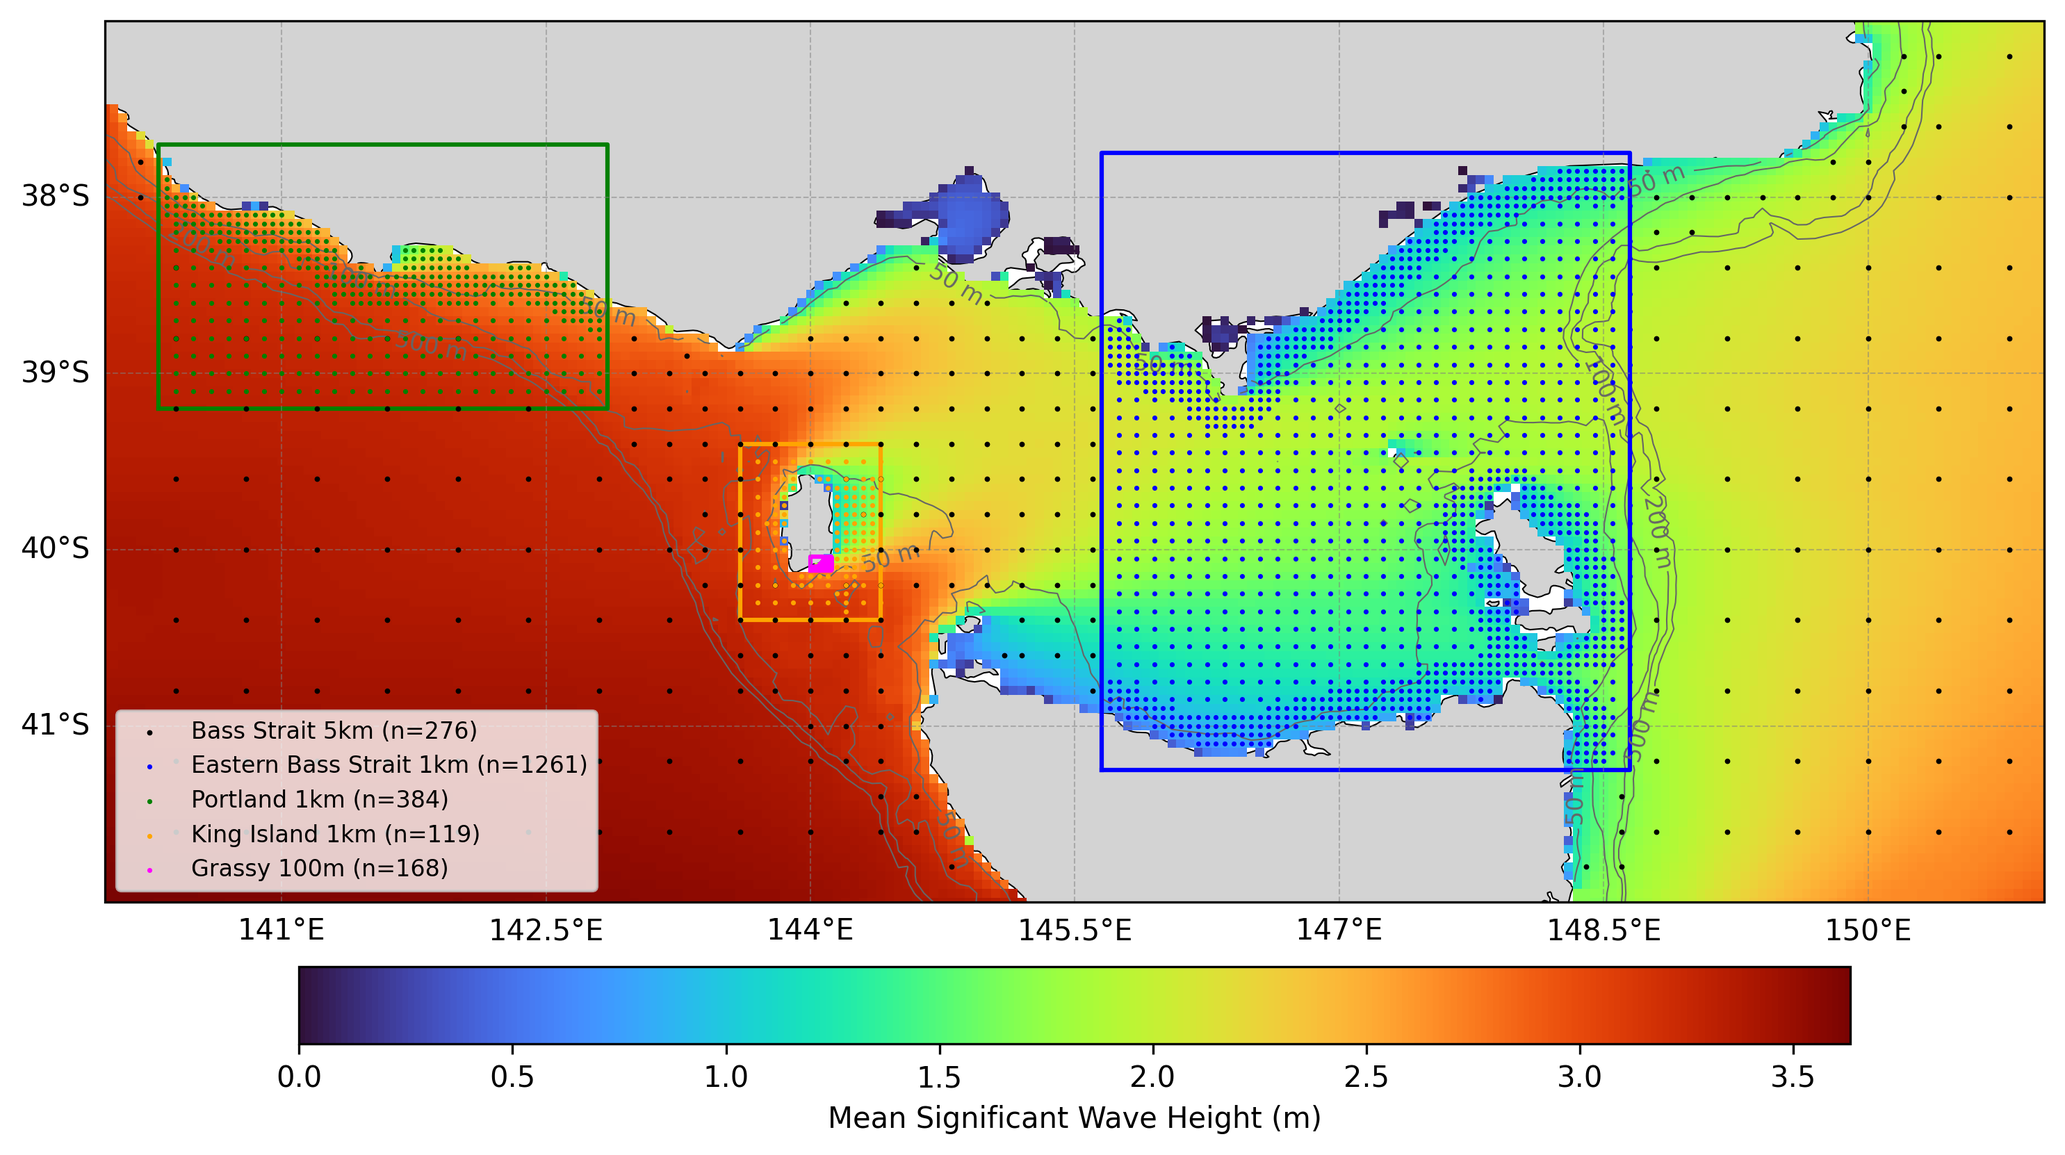
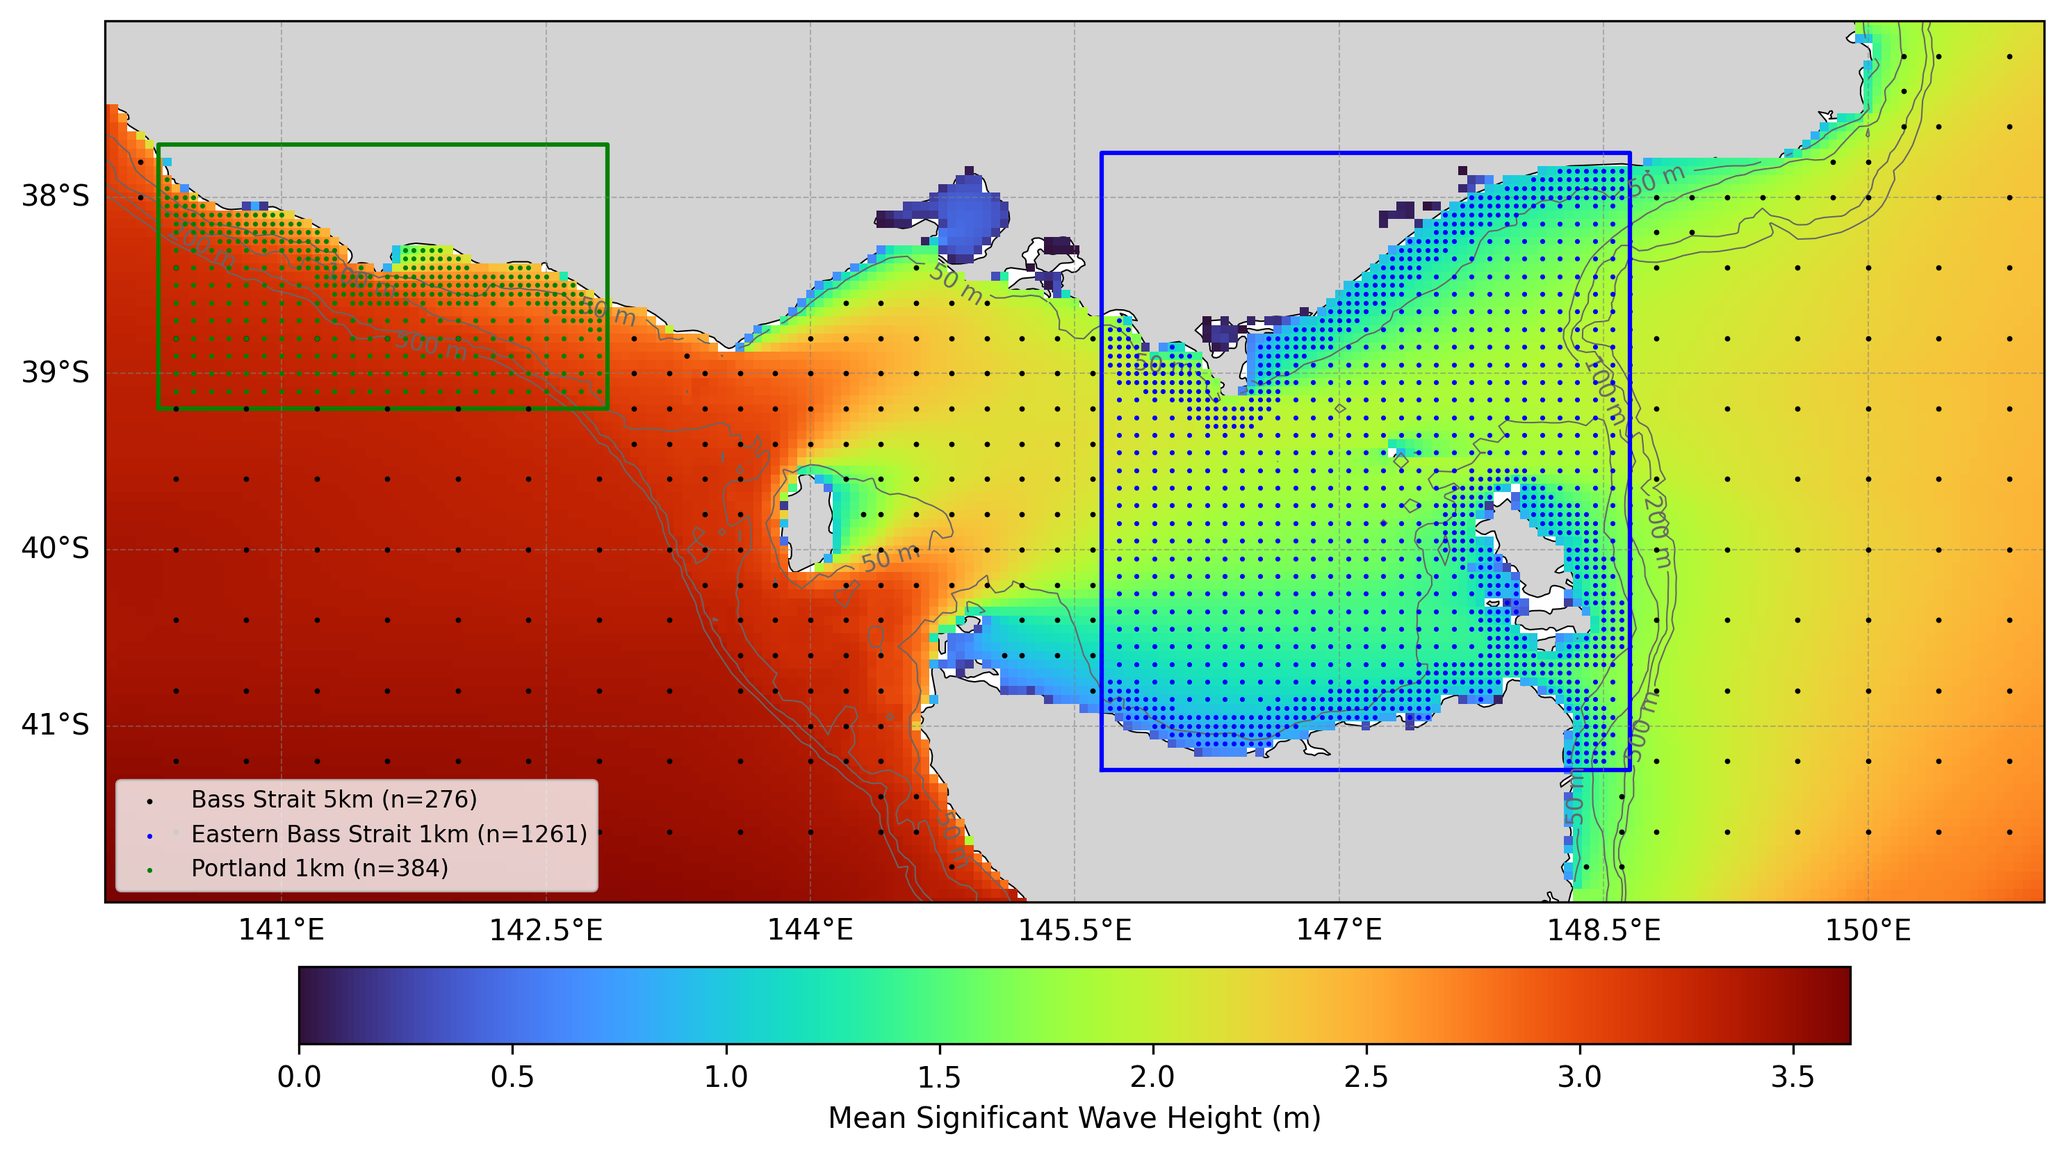
Add King Island document

Changed region(s): [[0.031, 0.6137, 0.3097, 0.7671], [0.3716, 0.3682, 0.4335, 0.5523]]

diff --git a/scripts/generate_kingisland_figure1.py b/scripts/generate_kingisland_figure1.py
@@ -1,0 +1,125 @@
+#!/usr/bin/env python3
+"""
+Generate Figure 1 for the King Island Wave Hindcast document.
+Shows mean significant wave height (from parent Bass Strait gridstats) with depth contours,
+spectra site locations for King Island and Grassy, and the Grassy nest bounding box.
+"""
+
+import matplotlib.pyplot as plt
+import cartopy.crs as ccrs
+import cartopy.feature as cfeature
+import numpy as np
+from oceanum.datamesh import Connector
+
+# Initialize Datamesh connector
+conn = Connector()
+
+# Query gridstats for mean wave parameters (King Island native resolution)
+print("Querying King Island gridstats data...")
+dset = conn.query(
+    datasource="oceanum_wave_king_1km_era5_gridstats",
+    variables=["hs_mean", "depth_mean"]
+)
+
+# Query sites for spectra locations
+print("Querying King Island spectra sites...")
+sites_king = conn.query(datasource="oceanum_wave_king_1km_era5_spec", variables=["lon", "lat"])
+
+print("Querying Grassy spectra sites...")
+sites_grassy = conn.query(datasource="oceanum_wave_grassy_100m_era5_spec", variables=["lon", "lat"])
+
+# Get nest geometries
+print("Getting nest geometries...")
+ds_king = conn.get_datasource("oceanum_wave_king_1km_era5_grid")
+ds_grassy = conn.get_datasource("oceanum_wave_grassy_100m_era5_grid")
+
+# Set up the figure with Cartopy projection
+fig, ax = plt.subplots(
+    figsize=(8, 10),
+    subplot_kw={"projection": ccrs.PlateCarree()}
+)
+
+# Plot mean significant wave height
+print("Plotting mean Hs...")
+hs_plot = dset.hs_mean.plot(
+    ax=ax,
+    transform=ccrs.PlateCarree(),
+    cmap="turbo",
+    cbar_kwargs={
+        "label": "Mean Significant Wave Height (m)",
+        "orientation": "horizontal",
+        "pad": 0.05,
+        "shrink": 0.8
+    }
+)
+
+# Add depth contours
+print("Adding depth contours...")
+depth = dset.depth_mean.values
+lon = dset.longitude.values if "longitude" in dset.coords else dset.lon.values
+lat = dset.latitude.values if "latitude" in dset.coords else dset.lat.values
+
+# Create meshgrid for contour plotting
+lon2d, lat2d = np.meshgrid(lon, lat)
+
+# Plot depth contours
+contour_levels = [20, 50, 100, 200]
+cs = ax.contour(
+    lon2d, lat2d, depth,
+    levels=contour_levels,
+    colors="0.4",
+    linewidths=0.5,
+    transform=ccrs.PlateCarree()
+)
+ax.clabel(cs, inline=True, fontsize=8, fmt="%d m")
+
+# Plot King Island spectra site locations
+print("Plotting spectra sites...")
+ax.scatter(
+    sites_king.lon.values, sites_king.lat.values,
+    s=5, c="black", marker=".",
+    transform=ccrs.PlateCarree(),
+    label=f"King Island 1km (n={len(sites_king.lon)})",
+    zorder=5
+)
+
+# Plot Grassy spectra site locations
+ax.scatter(
+    sites_grassy.lon.values, sites_grassy.lat.values,
+    s=5, c="blue", marker=".",
+    transform=ccrs.PlateCarree(),
+    label=f"Grassy 100m (n={len(sites_grassy.lon)})",
+    zorder=5
+)
+
+# Plot nest bounding boxes
+print("Plotting nest bboxes...")
+# King Island bbox
+king_x, king_y = ds_king.geom.exterior.xy
+ax.plot(king_x, king_y, color="black", linewidth=2, transform=ccrs.PlateCarree(), label="King Island 1km domain")
+
+# Grassy bbox
+grassy_x, grassy_y = ds_grassy.geom.exterior.xy
+ax.plot(grassy_x, grassy_y, color="blue", linewidth=2, transform=ccrs.PlateCarree(), label="Grassy 100m nest")
+
+# Add land features
+ax.add_feature(cfeature.LAND, facecolor="lightgray", edgecolor="black", linewidth=0.5)
+
+# Set extent to match King Island domain with some buffer
+ax.set_extent([143.4, 144.6, -40.6, -39.2], crs=ccrs.PlateCarree())
+
+# Add gridlines
+gl = ax.gridlines(draw_labels=True, linewidth=0.5, color="gray", alpha=0.5, linestyle="--")
+gl.top_labels = False
+gl.right_labels = False
+
+# Add legend
+ax.legend(loc="lower left", fontsize=8)
+
+# Save figure
+output_path = "/source/datasource-description/figures/kingisland_figure1_hs_mean.png"
+print(f"Saving figure to {output_path}...")
+plt.savefig(output_path, dpi=300, bbox_inches="tight", facecolor="white")
+plt.close()
+
+print("Done!")

diff --git a/scripts/generate_bass_figure1.py b/scripts/generate_bass_figure1.py
@@ -31,18 +31,10 @@ sites_ebass = conn.query(datasource="oceanum_wave_ebass_1km_era5_spec", variable
 print("Querying Portland spectra sites...")
 sites_ptlan = conn.query(datasource="oceanum_wave_ptlan_1km_era5_spec", variables=["lon", "lat"])
 
-print("Querying Grassy spectra sites...")
-sites_grassy = conn.query(datasource="oceanum_wave_grassy_100m_era5_spec", variables=["lon", "lat"])
-
-print("Querying King Island spectra sites...")
-sites_king = conn.query(datasource="oceanum_wave_king_1km_era5_spec", variables=["lon", "lat"])
-
 # Get nest geometries
 print("Getting nest geometries...")
 ds_ebass = conn.get_datasource("oceanum_wave_ebass_1km_era5_grid")
 ds_ptlan = conn.get_datasource("oceanum_wave_ptlan_1km_era5_grid")
-ds_king = conn.get_datasource("oceanum_wave_king_1km_era5_grid")
-ds_grassy = conn.get_datasource("oceanum_wave_grassy_100m_era5_grid")
 
 # Set up the figure with Cartopy projection
 fig, ax = plt.subplots(
@@ -112,31 +104,11 @@ ax.scatter(
     zorder=5
 )
 
-# Plot King Island spectra site locations
-ax.scatter(
-    sites_king.lon.values, sites_king.lat.values,
-    s=2, c="orange", marker=".",
-    transform=ccrs.PlateCarree(),
-    label=f"King Island 1km (n={len(sites_king.lon)})",
-    zorder=5
-)
-
-# Plot Grassy spectra site locations
-ax.scatter(
-    sites_grassy.lon.values, sites_grassy.lat.values,
-    s=2, c="magenta", marker=".",
-    transform=ccrs.PlateCarree(),
-    label=f"Grassy 100m (n={len(sites_grassy.lon)})",
-    zorder=5
-)
-
 # Plot nest bounding boxes
 print("Plotting nest bboxes...")
 for geom, label, color in [
     (ds_ebass.geom, "Eastern Bass Strait 1km", "blue"),
     (ds_ptlan.geom, "Portland 1km", "green"),
-    (ds_king.geom, "King Island 1km", "orange"),
-    (ds_grassy.geom, "Grassy 100m", "magenta"),
 ]:
     x, y = geom.exterior.xy
     ax.plot(x, y, color=color, linewidth=1.5, transform=ccrs.PlateCarree())

diff --git a/oceanum_king_island_wave_hindcast.md b/oceanum_king_island_wave_hindcast.md
@@ -1,0 +1,129 @@
+<style>
+p { text-align: justify; }
+</style>
+
+# Oceanum King Island Wave Hindcast Specification
+
+**February 2025**
+
+| | |
+|---|---|
+| **Model** | SWAN 41.31 |
+| **Period** | Jan 2015 - Jan 2025 |
+| **Spatial resolution** | 0.01 degree (King Island), 0.001 degree (Grassy) |
+| **Temporal resolution** | 1 hourly |
+| **Region** | 143.6E - 144.4E, 40.4S - 39.4S |
+| **Forcings** | ERA5 winds, Glorys/TPXO9 currents, and Oceanum spectra |
+
+---
+
+## Dataset description
+
+The King Island wave hindcast dataset provides a detailed account of ocean wave parameters around King Island in western Bass Strait (Figure 1). Wave spectra are computed over a 10-year period between 2015 and 2025 using the SWAN (Simulating WAves Nearshore) third-generation spectral wave model. The model is driven by inputs from the Oceanum Bass Strait Wave Model for spectral boundaries and <a href="https://www.ecmwf.int/en/forecasts/dataset/ecmwf-reanalysis-v5" target="_blank">ERA5 reanalysis winds</a> from the European Centre for Medium-Range Weather Forecasts. Wave-current interactions are included through coupling with ocean currents from <a href="https://data.marine.copernicus.eu/product/GLOBAL_MULTIYEAR_PHY_001_030/description" target="_blank">Glorys reanalysis</a> and tidal currents from the TPXO9 atlas. Bathymetry is derived from the <a href="https://ecat.ga.gov.au/geonetwork/srv/eng/catalog.search#/metadata/115066" target="_blank">Bass Strait high-resolution depth model</a> 30m grid from Geosciences Australia.
+
+The modelling setup employs the <a href="https://journals.ametsoc.org/view/journals/atot/29/9/jtech-d-11-00092_1.xml" target="_blank">ST6</a> source term parameterisations. Spectra are discretised into 36 directional bins and 32 frequency bins, covering a frequency range from 0.037 to 0.7102 Hz with 10% logarithmic increments. The parent domain features a regular grid with 1 km (0.01 degree) resolution covering King Island and surrounding waters. A higher-resolution nested domain provides detailed wave information for the Grassy harbour area:
+
+- **Grassy (100 m)**: Ultra-high-resolution domain covering Grassy harbour on the southeast coast of King Island
+
+The dataset provides hourly estimates for an extensive array of ocean wave parameters (Table 2) including spectral quantities integrated over the full spectrum and for spectral partitions (defined from an 8-second split and from the Watershed method). These data are stored over the entire grid at native resolution. Additionally, frequency-direction wave spectra are available at 119 sites for King Island and 168 sites for Grassy (see Figure 1).
+
+<img src="./figures/kingisland_figure1_hs_mean.png" alt="Figure 1" width="500">
+
+**Figure 1.** Mean significant wave height from the King Island hindcast domain. The locations of 2D spectra hourly output are shown by the dots. The black box indicates the King Island 1km domain extent, and the blue box indicates the Grassy 100m nest. Depth contours are shown at 20m, 50m, 100m, and 200m.
+
+---
+
+## Validation
+
+The wave hindcast can be validated against satellite altimeter observations using the <a href="https://hindcast-satellite-validation-main-prod.apps.oceanum.io/" target="_blank">Oceanum Hindcast Satellite Validation App</a>. This interactive tool allows users to compare modelled significant wave height against satellite altimeter measurements at any location within the model domain, providing density scatter plots, quantile comparisons, and statistical metrics.
+
+---
+
+## Data description
+
+**Table 1.** Data description.
+
+| Field | Value |
+|---|---|
+| **Title** | Oceanum King Island wave hindcast |
+| **Institution** | <a href="https://oceanum.io" target="_blank">Oceanum</a> |
+| **Access** | <a href="https://ui.datamesh.oceanum.io/" target="_blank">Oceanum Datamesh</a> |
+| **Source** | <a href="https://swanmodel.sourceforge.io/" target="_blank">SWAN 41.31A</a> |
+| **Source terms** | <a href="https://journals.ametsoc.org/view/journals/atot/29/9/jtech-d-11-00092_1.xml" target="_blank">ST6</a> |
+| **Temporal coverage** | 2015-01-01 to 2025-01-01 |
+| **Temporal resolution** | Hourly |
+| **Spatial coverage (King Island)** | [143.6E, 40.4S, 144.4E, 39.4S] at 0.01 degree |
+| **Spatial coverage (Grassy)** | [144E, 40.12S, 144.12E, 40.04S] at 0.001 degree |
+| **Spectra output sites (King Island)** | 119 |
+| **Spectra output sites (Grassy)** | 168 |
+| **Frequency discretisation** | 32 frequencies between 0.037 - 0.7102 Hz at 10% logarithmic increments |
+| **Direction resolution** | 10 deg |
+| **Bathymetry** | <a href="https://ecat.ga.gov.au/geonetwork/srv/eng/catalog.search#/metadata/115066" target="_blank">Bass Strait high-resolution depth model 30m</a> |
+| **Winds** | <a href="https://www.ecmwf.int/en/forecasts/dataset/ecmwf-reanalysis-v5" target="_blank">ERA5 Reanalysis</a> |
+| **Currents** | <a href="https://data.marine.copernicus.eu/product/GLOBAL_MULTIYEAR_PHY_001_030/description" target="_blank">Glorys Reanalysis</a> + <a href="https://www.tpxo.net/global/tpxo9-atlas" target="_blank">TPXO9 Tides</a> |
+| **Boundary** | <a href="https://ui.datamesh.oceanum.io/datasource/oceanum_wave_bass_5km_era5_spec" target="_blank">Oceanum Bass Strait 5km hourly wave spectra</a> |
+
+### Linked Datamesh datasources
+
+#### King Island (1 km)
+
+- <a href="https://ui.datamesh.oceanum.io/datasource/oceanum_wave_king_1km_era5_grid" target="_blank">Oceanum King Island 1 km hourly wave parameters</a>
+- <a href="https://ui.datamesh.oceanum.io/datasource/oceanum_wave_king_1km_era5_spec" target="_blank">Oceanum King Island 1 km hourly wave spectra</a>
+
+#### Grassy (100 m)
+
+- <a href="https://ui.datamesh.oceanum.io/datasource/oceanum_wave_grassy_100m_era5_grid" target="_blank">Oceanum Grassy 100 m hourly wave parameters</a>
+- <a href="https://ui.datamesh.oceanum.io/datasource/oceanum_wave_grassy_100m_era5_spec" target="_blank">Oceanum Grassy 100 m hourly wave spectra</a>
+
+---
+
+## Integrated parameters gridded output
+
+Integrated wave parameters are stored hourly over the domain at the native model resolution. Table 2 describes long names and units of all 39 gridded output parameters.
+
+**Table 2.** Gridded output parameters.
+
+| Variable | Long Name | Units |
+|---|---|---|
+| depth | depth below sea surface | m |
+| dpm | mean direction at the spectral peak of wind and swell waves | degree |
+| dpmsea | mean direction at the spectral peak of wind waves below 8 seconds period | degree |
+| dpmswe | mean direction at the spectral peak of swell waves above 8 seconds period | degree |
+| dspr | directional spreading of wind and swell waves | degree |
+| fspr | normalised width of the frequency spectrum of wind and swell waves | - |
+| hs | significant height of wind and swell waves | m |
+| hsea | significant height of wind waves under 8 seconds period | m |
+| hswe | significant height of swell waves above 8 seconds period | m |
+| pdir0 | directional spreading of wind waves | degree |
+| pdir1 | directional spreading of primary swell waves | degree |
+| pdir2 | directional spreading of secondary swell waves | degree |
+| pdir3 | directional spreading of tertiary swell waves | degree |
+| pdspr0 | directional spreading of wind waves | degree |
+| pdspr1 | directional spreading of primary swell waves | degree |
+| pdspr2 | directional spreading of secondary swell waves | degree |
+| pdspr3 | directional spreading of tertiary swell waves | degree |
+| phs0 | sea surface wind wave significant height | m |
+| phs1 | sea surface primary swell wave significant height | m |
+| phs2 | sea surface secondary swell wave significant height | m |
+| phs3 | sea surface tertiary swell wave significant height | m |
+| ptp0 | sea surface wind wave period at variance spectral density maximum | s |
+| ptp1 | sea surface primary swell wave period at variance spectral density maximum | s |
+| ptp2 | sea surface secondary swell wave period at variance spectral density maximum | s |
+| ptp3 | sea surface tertiary swell wave period at variance spectral density maximum | s |
+| pwlen0 | mean wavelength of wind waves | m |
+| pwlen1 | mean wavelength of primary swell waves | m |
+| pwlen2 | mean wavelength of secondary swell waves | m |
+| pwlen3 | mean wavelength of tertiary swell waves | m |
+| tm01 | mean absolute wave period of wind and swell waves from the first frequency moment | s |
+| tm02 | mean absolute wave period of wind and swell waves from the second frequency moment | s |
+| tps | smooth relative peak wave period of wind and swell waves | s |
+| tpssea | smooth relative peak wave period of wind waves below 8 seconds period | s |
+| tpsswe | smooth relative peak wave period of swell waves above 8 seconds period | s |
+| ucur | eastward component of current velocity | m/s |
+| vcur | northward component of current velocity | m/s |
+| xwnd | eastward component of wind velocity | m/s |
+| ywnd | northward component of wind velocity | m/s |
+
+---
+
+www.oceanum.science

diff --git a/oceanum_bass_strait_wave_hindcast.md b/oceanum_bass_strait_wave_hindcast.md
@@ -10,7 +10,7 @@ p { text-align: justify; }
 |---|---|
 | **Model** | SWAN 41.31 |
 | **Period** | Jan 1993 - Updating |
-| **Spatial resolution** | 0.05 degree (Bass Strait), 0.01 degree (nests), 0.001 degree (Grassy) |
+| **Spatial resolution** | 0.05 degree (Bass Strait), 0.01 degree (nests) |
 | **Temporal resolution** | 1 hourly |
 | **Region** | 140E - 151E, 42S - 37S |
 | **Forcings** | ERA5 winds, Glorys/TPXO9 currents, and Oceanum spectra |
@@ -25,10 +25,8 @@ The modelling setup employs the <a href="https://journals.ametsoc.org/view/journ
 
 - **Eastern Bass Strait (1 km)**: Covers the eastern Bass Strait and northern Tasmanian coast
 - **Portland (1 km)**: Covers the Portland area in western Victoria
-- **King Island (1 km)**: Covers King Island in western Bass Strait (2015-2025)
-- **Grassy (100 m)**: Ultra-high-resolution domain covering Grassy harbour on King Island (2015-2025)
 
-The dataset provides hourly estimates for an extensive array of ocean wave parameters (Table 2) including spectral quantities integrated over the full spectrum and for spectral partitions (defined from an 8-second split and from the Watershed method). These data are stored over the entire grid at native resolution. Additionally, frequency-direction wave spectra are available at 276 sites for Bass Strait, 1261 sites for Eastern Bass Strait, 384 sites for Portland, 119 sites for King Island, and 168 sites for Grassy (see Figure 1).
+The dataset provides hourly estimates for an extensive array of ocean wave parameters (Table 2) including spectral quantities integrated over the full spectrum and for spectral partitions (defined from an 8-second split and from the Watershed method). These data are stored over the entire grid at native resolution. Additionally, frequency-direction wave spectra are available at 276 sites for Bass Strait, 1261 sites for Eastern Bass Strait, and 384 sites for Portland (see Figure 1).
 
 <img src="./figures/bass_figure1_hs_mean.png" alt="Figure 1" width="600">
 
@@ -58,13 +56,9 @@ The wave hindcast can be validated against satellite altimeter observations usin
 | **Spatial coverage (Bass Strait)** | [140E, 42S, 151E, 37S] at 0.05 degree |
 | **Spatial coverage (Eastern Bass Strait)** | [145.65E, 41.25S, 148.65E, 37.75S] at 0.01 degree |
 | **Spatial coverage (Portland)** | [140.3E, 39.2S, 142.85E, 37.7S] at 0.01 degree |
-| **Spatial coverage (King Island)** | [143.6E, 40.4S, 144.4E, 39.4S] at 0.01 degree |
-| **Spatial coverage (Grassy)** | [144E, 40.12S, 144.12E, 40.04S] at 0.001 degree |
 | **Spectra output sites (Bass Strait)** | 276 |
 | **Spectra output sites (Eastern Bass Strait)** | 1261 |
 | **Spectra output sites (Portland)** | 384 |
-| **Spectra output sites (King Island)** | 119 |
-| **Spectra output sites (Grassy)** | 168 |
 | **Frequency discretisation** | 32 frequencies between 0.037 - 0.7102 Hz at 10% logarithmic increments |
 | **Direction resolution** | 10 deg |
 | **Bathymetry** | <a href="https://ecat.ga.gov.au/geonetwork/srv/eng/catalog.search#/metadata/148997" target="_blank">Australian Bathymetry and Topography 2023 250m</a> |
@@ -89,16 +83,6 @@ The wave hindcast can be validated against satellite altimeter observations usin
 
 - <a href="https://ui.datamesh.oceanum.io/datasource/oceanum_wave_ptlan_1km_era5_grid" target="_blank">Oceanum Portland 1 km hourly wave parameters</a>
 - <a href="https://ui.datamesh.oceanum.io/datasource/oceanum_wave_ptlan_1km_era5_spec" target="_blank">Oceanum Portland 1 km hourly wave spectra</a>
-
-#### King Island (1 km)
-
-- <a href="https://ui.datamesh.oceanum.io/datasource/oceanum_wave_king_1km_era5_grid" target="_blank">Oceanum King Island 1 km hourly wave parameters</a>
-- <a href="https://ui.datamesh.oceanum.io/datasource/oceanum_wave_king_1km_era5_spec" target="_blank">Oceanum King Island 1 km hourly wave spectra</a>
-
-#### Grassy (100 m)
-
-- <a href="https://ui.datamesh.oceanum.io/datasource/oceanum_wave_grassy_100m_era5_grid" target="_blank">Oceanum Grassy 100 m hourly wave parameters</a>
-- <a href="https://ui.datamesh.oceanum.io/datasource/oceanum_wave_grassy_100m_era5_spec" target="_blank">Oceanum Grassy 100 m hourly wave spectra</a>
 
 ---
 

diff --git a/README.md b/README.md
@@ -10,4 +10,4 @@ Collection of datamesh datasource description documents
 6. [Oceanum Morocco wave hindcast](./oceanum_morocco_wave_hindcast.md)
 7. [Oceanum West Africa wave hindcast](./oceanum_west_africa_wave_hindcast.md)
 8. [Oceanum Malay Peninsula wave hindcast](./oceanum_malay_peninsula_wave_hindcast.md)
-9. [Oceanum Bass Strait wave hindcast](./oceanum_bass_strait_wave_hindcast.md)
+9. [Oceanum King Island wave hindcast](./oceanum_king_island_wave_hindcast.md)
